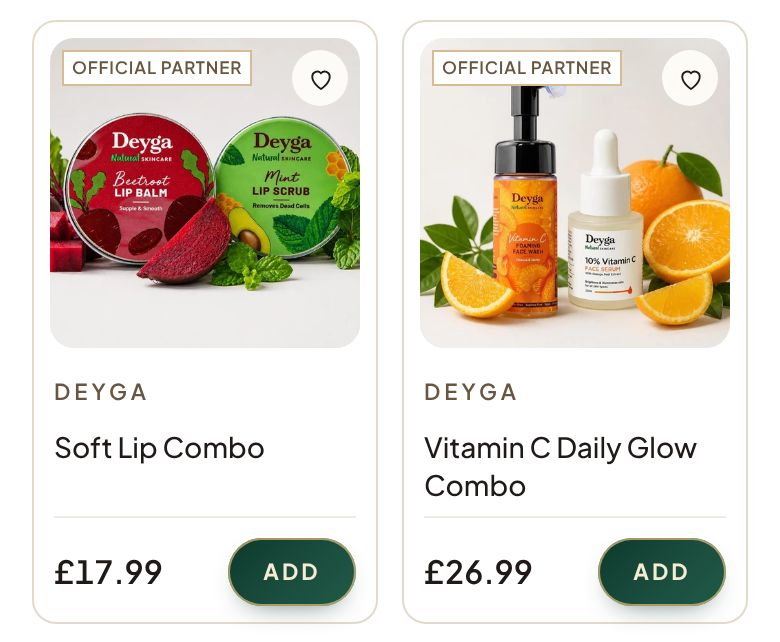
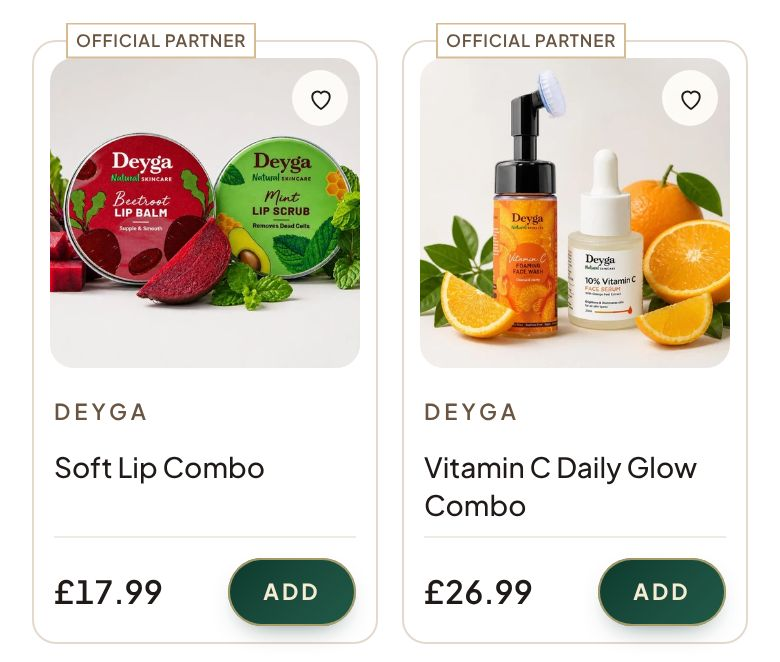
Card badge on the card border line, off the photo
Claude-Session: https://claude.ai/code/session_01S2g112JF6CCLo8Tg7CRZKC

diff --git a/theme/assets/sw-proto.css b/theme/assets/sw-proto.css
@@ -2559,3 +2559,6 @@ html.as-open .swp .chatbtn{display:none}
 @media (max-width:800px){.swp .p-card .p-badge{top:6px!important;left:6px!important;font-size:8.5px!important;letter-spacing:.05em!important;padding:3px 5px!important;max-width:none!important;overflow:visible!important;text-overflow:clip!important;white-space:nowrap}.swp .p-card .heart:not(.big){top:6px;right:6px;width:28px;height:28px}.swp .p-card .heart:not(.big) svg{width:15px;height:15px}}
 @media (max-width:370px){.swp .p-card .p-badge{font-size:8px!important;letter-spacing:.02em!important;padding:3px 4px!important}}
 @media (max-width:340px){.swp .p-card .p-badge{font-size:7.5px!important;letter-spacing:0!important;padding:3px!important}}
+/* user, 12 Nov 2026: card badge sits on the card border line, top-left, off the photo (badge markup moved out of .p-media into .mwrap) */
+.swp .p-card .mwrap>.p-badge{top:-11px!important;left:12px!important;bottom:auto!important;transform:translateY(-50%);z-index:3;max-width:none!important;overflow:visible!important;white-space:nowrap}
+@media (max-width:720px){.swp .p-card .mwrap>.p-badge{top:-9px!important;left:8px!important}}

diff --git a/tools/theme/build_proto_css.py b/tools/theme/build_proto_css.py
@@ -360,6 +360,9 @@ html.as-open .swp .chatbtn{display:none}
 @media (max-width:800px){.swp .p-card .p-badge{top:6px!important;left:6px!important;font-size:8.5px!important;letter-spacing:.05em!important;padding:3px 5px!important;max-width:none!important;overflow:visible!important;text-overflow:clip!important;white-space:nowrap}.swp .p-card .heart:not(.big){top:6px;right:6px;width:28px;height:28px}.swp .p-card .heart:not(.big) svg{width:15px;height:15px}}
 @media (max-width:370px){.swp .p-card .p-badge{font-size:8px!important;letter-spacing:.02em!important;padding:3px 4px!important}}
 @media (max-width:340px){.swp .p-card .p-badge{font-size:7.5px!important;letter-spacing:0!important;padding:3px!important}}
+/* user, 12 Nov 2026: card badge sits on the card border line, top-left, off the photo (badge markup moved out of .p-media into .mwrap) */
+.swp .p-card .mwrap>.p-badge{top:-11px!important;left:12px!important;bottom:auto!important;transform:translateY(-50%);z-index:3;max-width:none!important;overflow:visible!important;white-space:nowrap}
+@media (max-width:720px){.swp .p-card .mwrap>.p-badge{top:-9px!important;left:8px!important}}
 """
 
 

diff --git a/CLAUDE.md b/CLAUDE.md
@@ -9,7 +9,7 @@ Read this first in every session. Full history: `docs/HANDOFF.md` (handoff from 
 - EVERY product photo uploaded from now on: convert to WebP, cut out the background (`tools/shopify/cutout_photos.py`, birefnet-general-lite; isnet / `cutout_flood.py` when it fails; check every result by eye), place it on the common emerald tint #EEF3F0 (the theme paints the background for files ending `-cutout.webp`), name it `<handle>-NN-cutout.webp`, and give it alt text '<product title> – <what the photo shows>' (no claims, no scene words the cut-out lost). Graphics/infographics/model shots are NOT cut out: extend them to 4:5 with their own edge colours (`tools/shopify/graphic_fill.py <in> <out>`; scenes whose edge is mostly picture get a blurred copy of the photo behind them), name them `<handle>-NN-fill.<original ext>`, keep their alt (user, 11 Nov 2026: a graphic must not sit as a separate box in the mount). The theme shows `-fill` files edge to edge. Never upload a plain photo without the cut-out or fill.
 
 ## Project
-- **Smaller card badge (user, 12 Nov 2026: the 'Official partner' tag looked too big in the 1:1 cards; 'make it smaller and move towards the top left corner … in mobile'):** the user published the Square photos draft (200659337603 is MAIN, found 12 Nov 2026). New draft **"Swansura – Smaller badge (draft)" (200669266307, duplicated from live 200659337603; preview https://www.swansura.com/?preview_theme_id=200669266307; user publishes)**: only `assets/sw-proto.css` changed (md5 656225b0…, also in build_proto_css.py EXTRA): `.swp .p-card .p-badge` 9 px text, letter-spacing .1em, 3×6 px padding, 8 px from the top-left corner (was 10–11 px text, 26 px tall); on ≤800 px 8 px text, 2×5 px padding, top-left 6 px (was bottom-left), max width 100% − 52 px so it stays clear of the wishlist heart. Preview: 'Official partner' 134×26 → 109×18 px on desktop, 124×26 → 91×15 px on phones, no sideways scroll. Then (user, 12 Nov 2026: phone badge text cut off; 'try like studio pick, that design was nice'): 'Official partner' now uses the Studio pick look (white card fill, brass-ink text, thin brass inset line) everywhere; on phones the full text always shows (no ellipsis, 8.5 px, 8 px ≤370, 7.5 px ≤340) and the card heart is 28 px at 6 px from the corner (was 36 px), so badge and heart never touch (gap 20 / 16 / 5 px at 390 / 360 / 320). sw-proto.css md5 2182230f… on the draft. Screenshots `docs/images/badge_small_{desktop,phone}_2026-11-12.jpg`. Any further theme change needs a new duplicate of the live theme.
+- **Smaller card badge (user, 12 Nov 2026: the 'Official partner' tag looked too big in the 1:1 cards; 'make it smaller and move towards the top left corner … in mobile'):** the user published the Square photos draft (200659337603 is MAIN, found 12 Nov 2026). New draft **"Swansura – Smaller badge (draft)" (200669266307, duplicated from live 200659337603; preview https://www.swansura.com/?preview_theme_id=200669266307; user publishes)**: only `assets/sw-proto.css` changed (md5 656225b0…, also in build_proto_css.py EXTRA): `.swp .p-card .p-badge` 9 px text, letter-spacing .1em, 3×6 px padding, 8 px from the top-left corner (was 10–11 px text, 26 px tall); on ≤800 px 8 px text, 2×5 px padding, top-left 6 px (was bottom-left), max width 100% − 52 px so it stays clear of the wishlist heart. Preview: 'Official partner' 134×26 → 109×18 px on desktop, 124×26 → 91×15 px on phones, no sideways scroll. Then (user, 12 Nov 2026: phone badge text cut off; 'try like studio pick, that design was nice'): 'Official partner' now uses the Studio pick look (white card fill, brass-ink text, thin brass inset line) everywhere; on phones the full text always shows (no ellipsis, 8.5 px, 8 px ≤370, 7.5 px ≤340) and the card heart is 28 px at 6 px from the corner (was 36 px), so badge and heart never touch (gap 20 / 16 / 5 px at 390 / 360 / 320). Then (user, 12 Nov 2026: 'move it to the top left corner, not on the image … on the border line … don't change the size of the card'): the badge markup moved out of the photo link (`.p-media`, which clips) into `.mwrap` in `snippets/sw-p-card.liquid` (md5 90651dc3…), and `.mwrap>.p-badge` sits centred on the card's top border line (top −11 px / −9 px ≤720 px, translateY(−50%), left 12 / 8 px); card size unchanged, nothing covers the photo. sw-proto.css md5 2dc82182… on the draft. Checked: collections at 1366 / 390 / 360, homepage, Fragrance and a product page's card rows: badge fully visible, not clipped, no sideways scroll. Screenshots `docs/images/badge_small_{desktop,phone}_2026-11-12.jpg`. Any further theme change needs a new duplicate of the live theme.
 - **Whole site 1:1 (user, 12 Nov 2026: 'The complete website should be in the 1:1 dimension. There is no 4:5 dimension in the entire website … Every product display … 1:1'):** store: the last 204 4:5 `-fill` graphics (anatomē 135, Jo Milano 25, Highborn 22, Swansura 6, Chris Adams 4, Armaf/Guerlain/Korloff 3, NBW/Hemel/Signature 1) re-widened from their originals to 1200x1200 (`tools/shopify/square_fills.py <storefront dump> <plan>` → `docs/images/square_2026-11-12/<name>-sq.<ext>`) and replaced in place with fileUpdate (same media id/alt/position; plan + undo `docs/backups/square_fills_plan_2026-11-12.json`; originals still in `docs/backups/graphic_fill_originals_2026-11-11/`). Storefront check (892 products): 0 `-fill` files, all 1,018 non-cut-out images square; the 2,631 cut-outs are transparent 4:5 files shown `contain` on the #EEF3F0 tint inside square frames. Theme, same draft 200659337603 (preview https://www.swansura.com/?preview_theme_id=200659337603; user publishes), sw-proto.css md5 59f118f6… (also in build_proto_css.py EXTRA): `.swp .pic` 1:1 everywhere (PDP main, thumbs, Complete the ritual, FBT, bag, hero arch, advent doors, placeholders, routine steps, range bands), cut-outs `contain`; desktop PDP: `#mainImg` 1:1 + thumbnail column `height:0;min-height:100%` (it had stretched the main frame to 512x710). Preview checked at 1366 + 390 on home, anatomē + Deyga PDPs, anatome + gifts-under-50 collections: 0 non-square product images (only brand logos), no sideways scroll, 0 empty alts, no Liquid errors. Screenshots `docs/images/square_site_*_2026-11-12.jpg`.
 - **Square photos ROLLED OUT, Vilvah + Deyga + all cards 1:1 (user, 12 Nov 2026: after the 1:1 test 'Okay Go head, all the 3'):** (1) originals back on all 160 active Vilvah/Deyga products: 671 files restored in place (fileUpdate originalSource + filename; -fill files back to their originals, 3 cut-outs whose truncated names had also been -fill-renamed handled by id), 200 detached originals re-attached and put back at their old gallery positions (productReorderMedia, payload field is `mediaUserErrors` now), 200 cut-outs detached (not deleted), 40 option links moved back; (2) 215 non-square originals (Deyga ~4:5, 5 Vilvah) widened to 1200x1200 with their own edge colours, never cropped (`tools/shopify/graphic_fill.py --square` / `set_square()`; `tools/shopify/square_photos.py <scratch>` builds the plan; files `docs/images/square_2026-11-12/<stem>-sq.<ext>`, contact sheets checked by eye); storefront check: Deyga 340 + Vilvah 470 images all square, 0 -cutout/-fill. (3) Theme draft renamed **"Swansura – Square photos (draft)" (200659337603, from live 200649539971; preview https://www.swansura.com/?preview_theme_id=200659337603; user publishes)**: every product card image 1:1 (`.swp .p-card img.pic` aspect 1/1 cover; cut-outs `contain` on the tint; placeholder 1:1), the ?sq=1 test script removed (theme.liquid back to live md5 bcb76ed7…), sw-proto.css md5 3bc26a61… (also in build_proto_css.py EXTRA); PDP keeps sq frame for square photos, 4:5 for cut-outs. Preview: deyga / vilvah / gifts-under-50 at 1366 + 390 no sideways scroll, 0 empty alts, no Liquid errors; screenshots `docs/images/square_final_*_2026-11-12.jpg`. Until published, live shows the square originals on the old beige mount. Undo: `docs/backups/square_photos_before_2026-11-12.json` (cur + plan). Standing photo rule for Vilvah/Deyga changes: original photo, widened to square, no cut-out.
 - **Square photos sample, Vilvah/Deyga (user, 12 Nov 2026: 'the Cut-out … Not Suitable for … Deyga … and Vilvah … Reverse that to Original and Make the Dimension as 1:1 … Do for the Sample'):** 8 products on /collections/serum (Vilvah AM PM Serum Kit, Better Ageing, Milk Drops; Deyga 2% HA, Rose Glow, Neem Seed Oil, 10% Vitamin C, Beautifying Serum) reverted on the LIVE store: originals re-attached in their old positions (fileUpdate referencesToAdd + productReorderMedia), cut-outs detached (not deleted), 4 variant links moved back, 32 `-fill` graphics restored to their original files. Plan + undo `docs/backups/square_sample_revert_2026-11-12.json`. Vilvah originals are square (1000×1000), Deyga ~4:5 (906×1156). Theme draft **"Swansura – Square photos sample (draft)" (200659337603, from live 200649539971; preview https://www.swansura.com/?preview_theme_id=200659337603; user publishes)**: `sw-p-card` + `sw-p-product` add class `sq` when aspect 0.95–1.05 (1:1 frame, no padding/multiply, cover) and `full` for 4:5 originals that are not -cutout/-fill (edge to edge); hover 2nd photo shown only when it has the same shape. CSS in sw-proto.css (patched directly, also in build_proto_css.py EXTRA). Preview: no sideways scroll 1366/390, 0 empty alts, no Liquid errors; screenshots `docs/images/square_sample_serum_{desktop,phone}_2026-11-12.jpg`. Until published, the 8 show originals on the old beige mount on live. Waiting for the user's call on rolling out to all Vilvah/Deyga. 1:1 TEST MODE (user, 12 Nov 2026: mixed 4:5 + 1:1 'looks so inorganic', check all-1:1): same draft, `?sq=1` on any preview URL adds `html.sq1` (sessionStorage, `?sq=0` turns it off; script in theme.liquid head) and every product card image becomes 1:1 (cut-outs contain on the tint, other photos cover); PDP unchanged. Screenshots `docs/images/square_1x1_test_*_2026-11-12.jpg`. Finding: cut-outs + Vilvah squares look even; Deyga 4:5 originals lose the dropper tops when cropped (Neem Seed Oil, Beautifying, 10% Vitamin C) → would need extending to square, not cropping. sw-proto.css md5 48f7987d…
